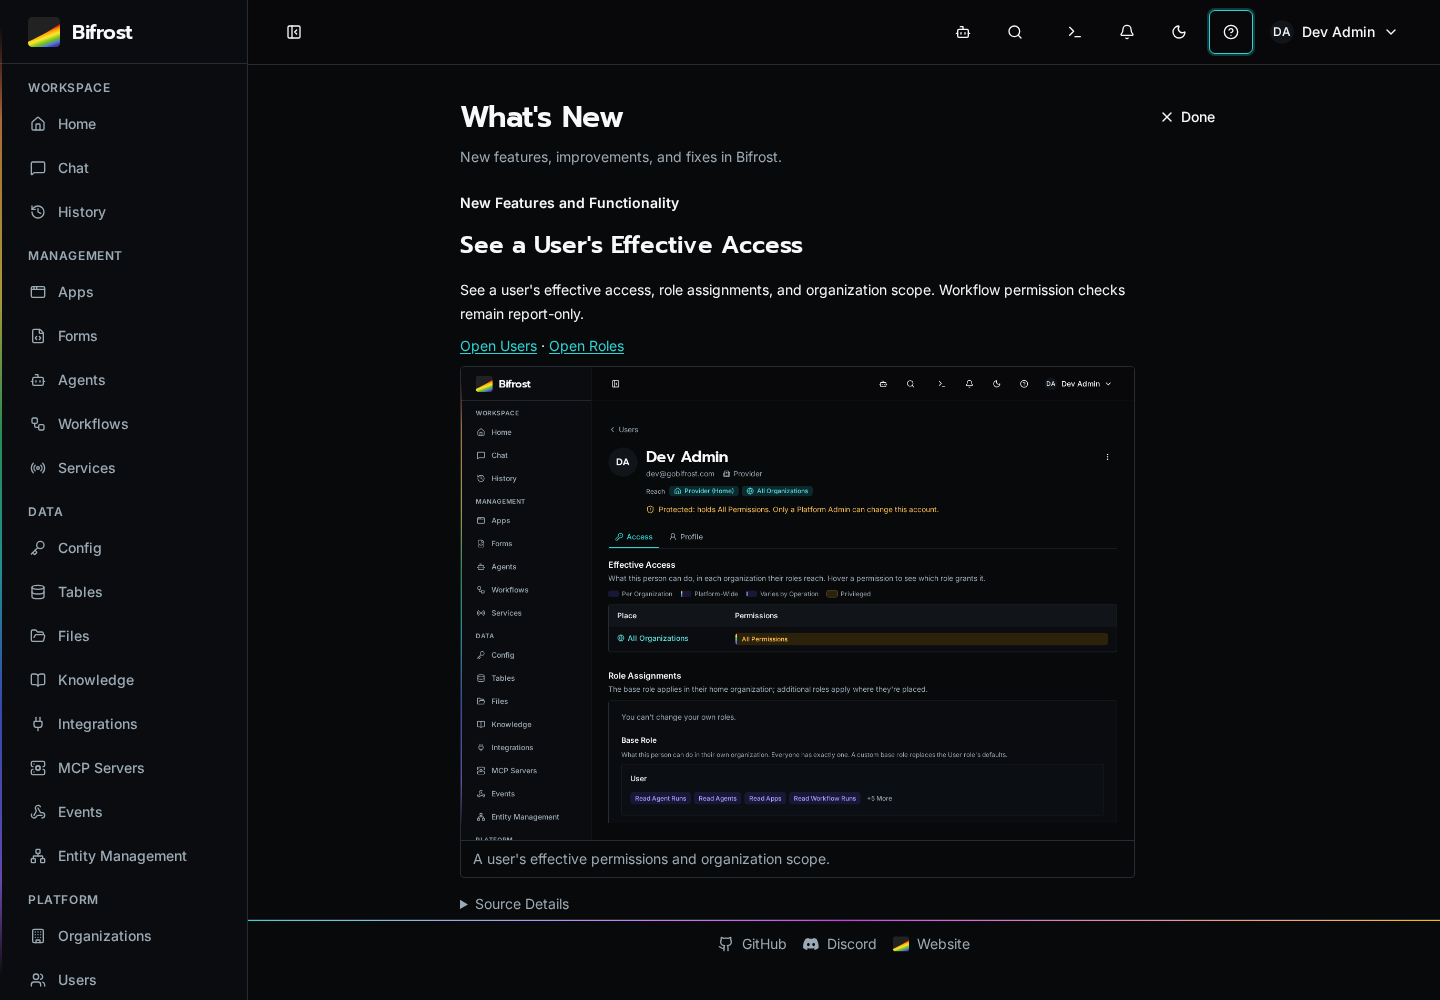
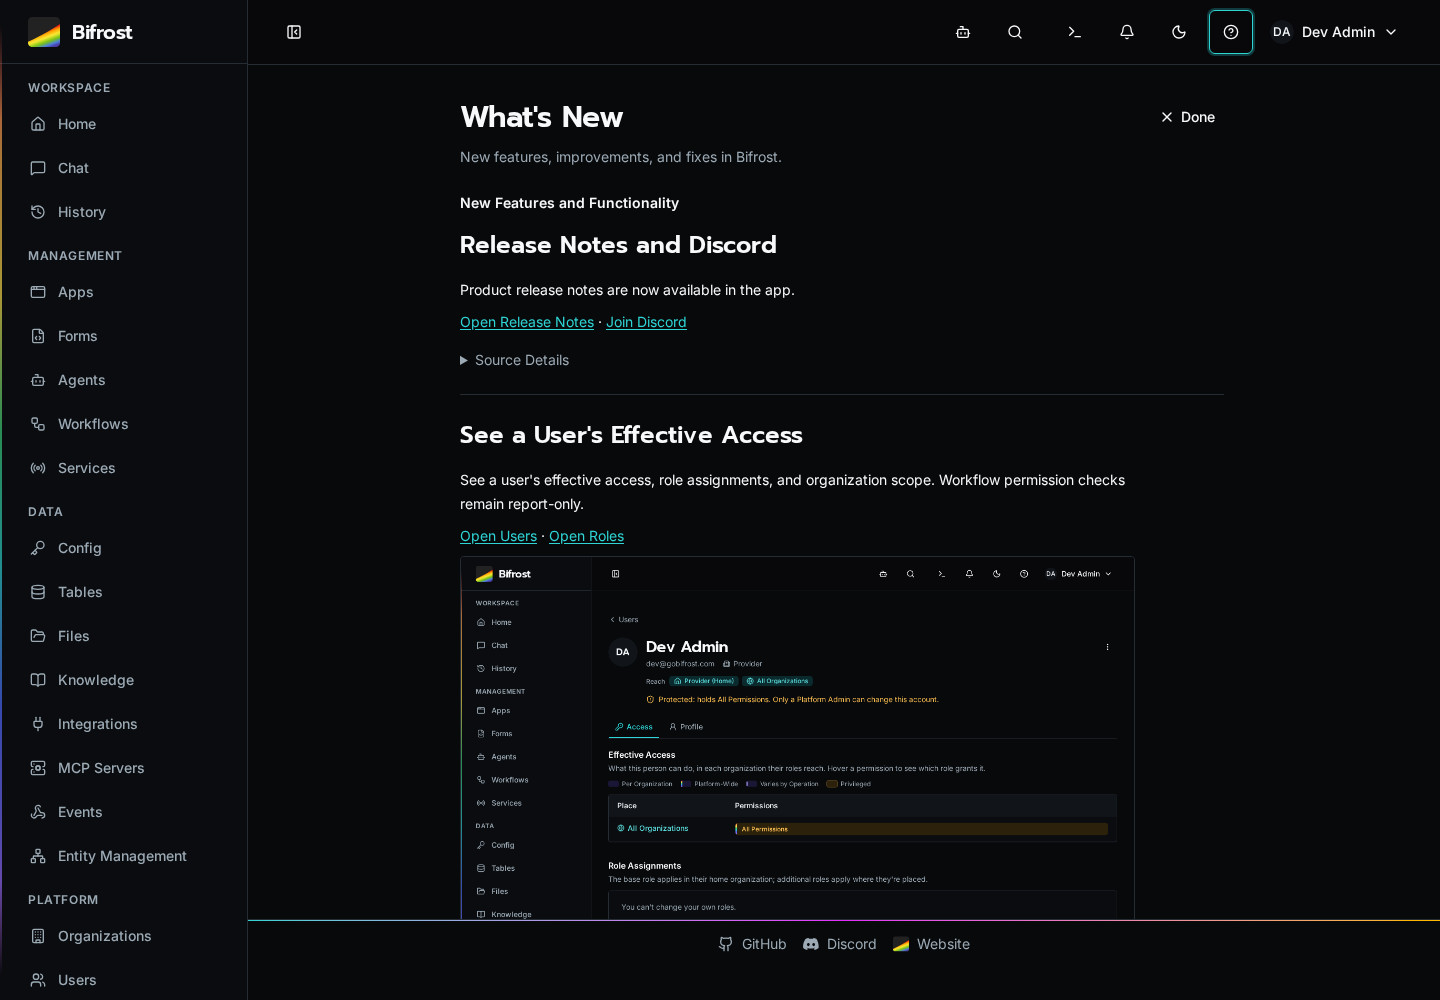
Activate the in-app release notes and Discord announcement

Changed region(s): [[0.3125, 0.217, 0.7812, 0.93], [0.5938, 0.558, 0.625, 0.589]]

diff --git a/client/e2e/preview/product-updates.admin.spec.ts b/client/e2e/preview/product-updates.admin.spec.ts
@@ -19,6 +19,8 @@ test("admin sees new updates automatically and reopens history from Help", async
 	await page.waitForURL((url) => !url.pathname.startsWith("/login"));
 	const dialog = page.getByRole("dialog", { name: "What's New" });
 	await expect(dialog).toBeVisible();
+	await expect(dialog.getByRole("heading", { name: "Release Notes and Discord", exact: true })).toBeVisible();
+	await expect(dialog.getByRole("link", { name: "Join Discord", exact: true })).toHaveAttribute("href", "https://discord.gg/x84pft2YDa");
 	await expect(
 		dialog.getByRole("heading", {
 			name: "See a User's Effective Access",
@@ -33,7 +35,7 @@ test("admin sees new updates automatically and reopens history from Help", async
 	).toHaveAttribute("href", "https://discord.gg/x84pft2YDa");
 	const receipt = await receiptResponse;
 	expect(receipt.status()).toBe(200);
-	expect((await receipt.json()).seen_entry_ids).toHaveLength(15);
+	expect((await receipt.json()).seen_entry_ids).toHaveLength(16);
 	await page.screenshot({
 		animations: "disabled",
 		path: testInfo.outputPath("whats-new-modal-desktop.png"),
@@ -139,7 +141,7 @@ test("admin sees new updates automatically and reopens history from Help", async
 		await freshPage.getByLabel("Password", { exact: true }).fill(password);
 		await freshPage.getByRole("button", { name: "Sign In", exact: true }).click();
 		const feed = await (await feedResponse).json();
-		expect(feed.seen_entry_ids).toHaveLength(15);
+		expect(feed.seen_entry_ids).toHaveLength(16);
 		await expect(freshPage.getByRole("button", { name: "Help", exact: true })).toBeVisible();
 		await expect(freshPage.getByRole("dialog", { name: "What's New" })).toHaveCount(0);
 	} finally {

diff --git a/docs/plans/product-updates-progress.md b/docs/plans/product-updates-progress.md
@@ -1,14 +1,14 @@
 # Product Updates Implementation Progress
 
 Worktree: `/home/jack/.codex/worktrees/ae47/bifrost`  
-Branch: `codex/product-updates`  
+Branch: `codex/product-updates-activation`
 Executor: this Codex chat, with disjoint Terra implementation tasks for tooling, client preview, and CI/release integration.
 
 ## Current Production Status
 
-This section supersedes historical preview-only status below. Jack authorized finishing production delivery and merging on 2026-10-06. All image channels now use the immutable approved bundle and authenticated per-admin PostgreSQL receipts. The local-storage adapter, development gates and Preview Controls were removed. Fifteen visible entries from sixteen approved canonical notes are ready; the app/Discord announcement still needs its actual feature PR as verified source.
+This section supersedes historical preview-only status below. Jack authorized finishing production delivery and merging on 2026-10-06. All image channels now use the immutable approved bundle and authenticated per-admin PostgreSQL receipts. The local-storage adapter, development gates and Preview Controls were removed. Sixteen visible entries from seventeen approved canonical notes are ready. The app/Discord announcement now cites verified feature PR #918 and its actual landed commit, retaining UUID and revision 5.
 
-Production-image browser verification passed with the rebuilt `client/Dockerfile` image, using `BIFROST_PRODUCT_UPDATES_TEST_URL=http://bifrost-product-updates-production-proof bash scripts/test-product-updates-preview.sh`: one journey passed in 9.8 seconds. It checks the automatic modal, receipt POST, loaded feature screenshots, desktop/mobile scrolling and exit controls, Help navigation, and no repeated modal when the same admin signs into a fresh browser. Screenshots were refreshed from that production run.
+Production-image browser verification passed with the rebuilt `client/Dockerfile` image, using `BIFROST_PRODUCT_UPDATES_TEST_URL=http://bifrost-product-updates-production-proof bash scripts/test-product-updates-preview.sh`: the activated announcement journey passed in 11.2 seconds (10.0 seconds for the test). It checks the automatic modal, receipt POST, loaded feature screenshots, desktop/mobile scrolling and exit controls, Help navigation, and no repeated modal when the same admin signs into a fresh browser. Screenshots were refreshed from that production run.
 
 Focused client verification: `./test.sh client unit src/components/layout/HelpMenu.test.tsx src/services/productUpdates.test.ts src/components/layout/ProductUpdateContent.test.tsx src/components/layout/ProductUpdatesDialog.test.tsx src/pages/ProductUpdates.test.tsx` passed 22 tests in five files; scoped ESLint, full `npm run lint` (zero errors; four existing warnings outside the changed files) and `npm run tsc` passed. Tests cover UUID identity versus revisions, new IDs, same-admin/other-admin tab messages, failed receipts and empty feeds.
 
@@ -33,6 +33,8 @@ Final review removed CodeQL's redundant compact-title conditional and unused pre
 The rebuilt production-image browser journey passed again with the replacement Discord invite (10.1 seconds overall). The feature PR's full checks passed on `6dba827f01dbc38e2896620c2e690a7fcbed27ed`, but its first merge-group Product Updates check exposed an ancestry assumption that fails for a squash queue. The PR was dequeued and auto-merge disabled while correcting the trusted base helper in PR #919. The replacement resolves GitHub MergeQueueEntry head/base commit metadata and rejects missing, ambiguous or cyclic chains. Eight focused Node tests passed, including the actual failed candidate, and the workflow adapter passed syntax and two-page pagination checks. No failed validation gate was bypassed.
 
 The squash-queue helper repair PR #919 merged as `14c6d9c92d845f1451d5d62c3a53ebf155a1c66a` after every queue check passed, including all three E2E shards and both signed image candidates. Its post-merge exact-candidate promotion gate passed. The feature branch incorporates it, and the cumulative inventory now has 126 verified PRs/commits with no missing coverage: 68 Highlight, 17 Other, 41 Omit. Focused verification passed eight Node scope tests, workflow adapter syntax/pagination checks, 37 Python tool/release tests, action pins and content validation. Saved previews and the image bundle were refreshed.
+
+Feature PR #918 merged as `e8295e7bf386d8d2223a639f70ab9c2f2dc2c5b1` after every PR and queue check passed, including Product Updates normalization, all three E2E shards, browser smoke and both image candidates. Its post-merge exact-candidate promotion passed. The activation ledger covers 127 verified PRs/commits: 69 Highlight, 17 Other, 41 Omit. All 17 approved entries are eligible; 16 are visible and the dependency notice stays release-only. The production-client browser journey passed after copying the new immutable bundle into the existing debug API container and reloading it. Its first run correctly rejected the stale 15-visible-entry debug input; no assertion or timeout was relaxed. The passing journey checks the new announcement, replacement invite, 16 saved UUIDs and no repeated modal in a fresh browser. Screenshots are from that passing run. `./test.sh tests/unit/services/test_product_updates.py -v` passed all three bundle tests against the new prepared artifact; 37 Python tool/release tests, scoped browser-spec ESLint and source validation passed.
 
 ## Historical Implementation Record
 

diff --git a/product-updates/previews/announcement-preview.md b/product-updates/previews/announcement-preview.md
@@ -40,6 +40,15 @@ Sources: [#820](https://github.com/gobifrost/bifrost/pull/820), [#830](https://g
 
 ## What's New
 
+### Release Notes and Discord
+
+
+Product release notes are now available in the app.
+
+**Open Release Notes** (in Bifrost) · [Join Discord](https://discord.gg/x84pft2YDa)
+
+Sources: [#918](https://github.com/gobifrost/bifrost/pull/918)
+
 ### See a User's Effective Access
 
 
@@ -47,7 +56,7 @@ See a user's effective access, role assignments, and organization scope. Workflo
 
 **Open Users** (in Bifrost) · **Open Roles** (in Bifrost)
 
-![Effective access and role assignments](https://raw.githubusercontent.com/gobifrost/bifrost/1837da2cfcfc8646ef5b094894bba4edd9d767f9/product-updates/assets/fd0c7319-fcc0-5901-8eeb-3ec1b74f98c8/effective-access.png)
+![Effective access and role assignments](https://raw.githubusercontent.com/gobifrost/bifrost/e8295e7bf386d8d2223a639f70ab9c2f2dc2c5b1/product-updates/assets/fd0c7319-fcc0-5901-8eeb-3ec1b74f98c8/effective-access.png)
 
 A user's effective permissions and organization scope.
 
@@ -144,7 +153,7 @@ Run and event history defaults to 30 days, including existing installs. Choose *
 
 **Open Maintenance** (in Bifrost)
 
-![Run history retention settings](https://raw.githubusercontent.com/gobifrost/bifrost/1837da2cfcfc8646ef5b094894bba4edd9d767f9/product-updates/assets/0cf7ed8c-3fc1-5d28-b89b-09ca20a59262/retention.png)
+![Run history retention settings](https://raw.githubusercontent.com/gobifrost/bifrost/e8295e7bf386d8d2223a639f70ab9c2f2dc2c5b1/product-updates/assets/0cf7ed8c-3fc1-5d28-b89b-09ca20a59262/retention.png)
 
 Choose a retention period or keep finished runs and events indefinitely.
 

diff --git a/product-updates/previews/initial-candidate.md b/product-updates/previews/initial-candidate.md
@@ -40,6 +40,15 @@ Sources: [#820](https://github.com/gobifrost/bifrost/pull/820), [#830](https://g
 
 ## What's New
 
+### Release Notes and Discord
+
+
+Product release notes are now available in the app.
+
+**Open Release Notes** (in Bifrost) · [Join Discord](https://discord.gg/x84pft2YDa)
+
+Sources: [#918](https://github.com/gobifrost/bifrost/pull/918)
+
 ### See a User's Effective Access
 
 
@@ -47,7 +56,7 @@ See a user's effective access, role assignments, and organization scope. Workflo
 
 **Open Users** (in Bifrost) · **Open Roles** (in Bifrost)
 
-![Effective access and role assignments](https://raw.githubusercontent.com/gobifrost/bifrost/1837da2cfcfc8646ef5b094894bba4edd9d767f9/product-updates/assets/fd0c7319-fcc0-5901-8eeb-3ec1b74f98c8/effective-access.png)
+![Effective access and role assignments](https://raw.githubusercontent.com/gobifrost/bifrost/e8295e7bf386d8d2223a639f70ab9c2f2dc2c5b1/product-updates/assets/fd0c7319-fcc0-5901-8eeb-3ec1b74f98c8/effective-access.png)
 
 A user's effective permissions and organization scope.
 
@@ -144,7 +153,7 @@ Run and event history defaults to 30 days, including existing installs. Choose *
 
 **Open Maintenance** (in Bifrost)
 
-![Run history retention settings](https://raw.githubusercontent.com/gobifrost/bifrost/1837da2cfcfc8646ef5b094894bba4edd9d767f9/product-updates/assets/0cf7ed8c-3fc1-5d28-b89b-09ca20a59262/retention.png)
+![Run history retention settings](https://raw.githubusercontent.com/gobifrost/bifrost/e8295e7bf386d8d2223a639f70ab9c2f2dc2c5b1/product-updates/assets/0cf7ed8c-3fc1-5d28-b89b-09ca20a59262/retention.png)
 
 Choose a retention period or keep finished runs and events indefinitely.
 

diff --git a/product-updates/previews/initial-full-release.md b/product-updates/previews/initial-full-release.md
@@ -40,6 +40,15 @@ Sources: [#820](https://github.com/gobifrost/bifrost/pull/820), [#830](https://g
 
 ## What's New
 
+### Release Notes and Discord
+
+
+Product release notes are now available in the app.
+
+**Open Release Notes** (in Bifrost) · [Join Discord](https://discord.gg/x84pft2YDa)
+
+Sources: [#918](https://github.com/gobifrost/bifrost/pull/918)
+
 ### See a User's Effective Access
 
 
@@ -47,7 +56,7 @@ See a user's effective access, role assignments, and organization scope. Workflo
 
 **Open Users** (in Bifrost) · **Open Roles** (in Bifrost)
 
-![Effective access and role assignments](https://raw.githubusercontent.com/gobifrost/bifrost/1837da2cfcfc8646ef5b094894bba4edd9d767f9/product-updates/assets/fd0c7319-fcc0-5901-8eeb-3ec1b74f98c8/effective-access.png)
+![Effective access and role assignments](https://raw.githubusercontent.com/gobifrost/bifrost/e8295e7bf386d8d2223a639f70ab9c2f2dc2c5b1/product-updates/assets/fd0c7319-fcc0-5901-8eeb-3ec1b74f98c8/effective-access.png)
 
 A user's effective permissions and organization scope.
 
@@ -144,7 +153,7 @@ Run and event history defaults to 30 days, including existing installs. Choose *
 
 **Open Maintenance** (in Bifrost)
 
-![Run history retention settings](https://raw.githubusercontent.com/gobifrost/bifrost/1837da2cfcfc8646ef5b094894bba4edd9d767f9/product-updates/assets/0cf7ed8c-3fc1-5d28-b89b-09ca20a59262/retention.png)
+![Run history retention settings](https://raw.githubusercontent.com/gobifrost/bifrost/e8295e7bf386d8d2223a639f70ab9c2f2dc2c5b1/product-updates/assets/0cf7ed8c-3fc1-5d28-b89b-09ca20a59262/retention.png)
 
 Choose a retention period or keep finished runs and events indefinitely.
 

diff --git a/docs/plans/product-updates-claude-handoff.md b/docs/plans/product-updates-claude-handoff.md
@@ -12,7 +12,7 @@ Features have concise individual headlines and verified screenshots where availa
 
 ## Content and Build
 
-The initial cumulative inventory covers 126 PRs since v1.4.1: 16 approved canonical notes covering 68 PRs, 17 smaller customer-facing changes and 41 documented omissions (including both validator bootstrap repairs). Fifteen canonical entries are visible in the app. The Release Notes and Discord announcement keeps its stable UUID and must cite this feature's actual PR; pending sources stay withheld until their landed metadata is verified.
+The initial cumulative inventory covers 127 PRs since v1.4.1: 17 approved canonical notes covering 69 PRs, 17 smaller customer-facing changes and 41 documented omissions (including both validator bootstrap repairs). Sixteen canonical entries are visible in the app. The Release Notes and Discord announcement retains its stable UUID and revision 5 and now cites verified PR #918 and its actual merge commit. Pending future sources stay withheld until their landed metadata is verified.
 
 Every API/client image is prepared from the shared approved source. The API serves an immutable bundle; screenshots have content-hashed URLs. Database storage contains presentation receipts, not a second editable release-note source. No runtime GitHub requests, model generation or polling are involved.
 

diff --git a/product-updates/entries/fff7e9e4-e072-590b-a65d-8873e2be4438.md b/product-updates/entries/fff7e9e4-e072-590b-a65d-8873e2be4438.md
@@ -14,7 +14,8 @@
   "sources": [
     {
       "pr": 918,
-      "role": "implementation"
+      "role": "implementation",
+      "commit": "e8295e7bf386d8d2223a639f70ab9c2f2dc2c5b1"
     }
   ],
   "eligibility": {
